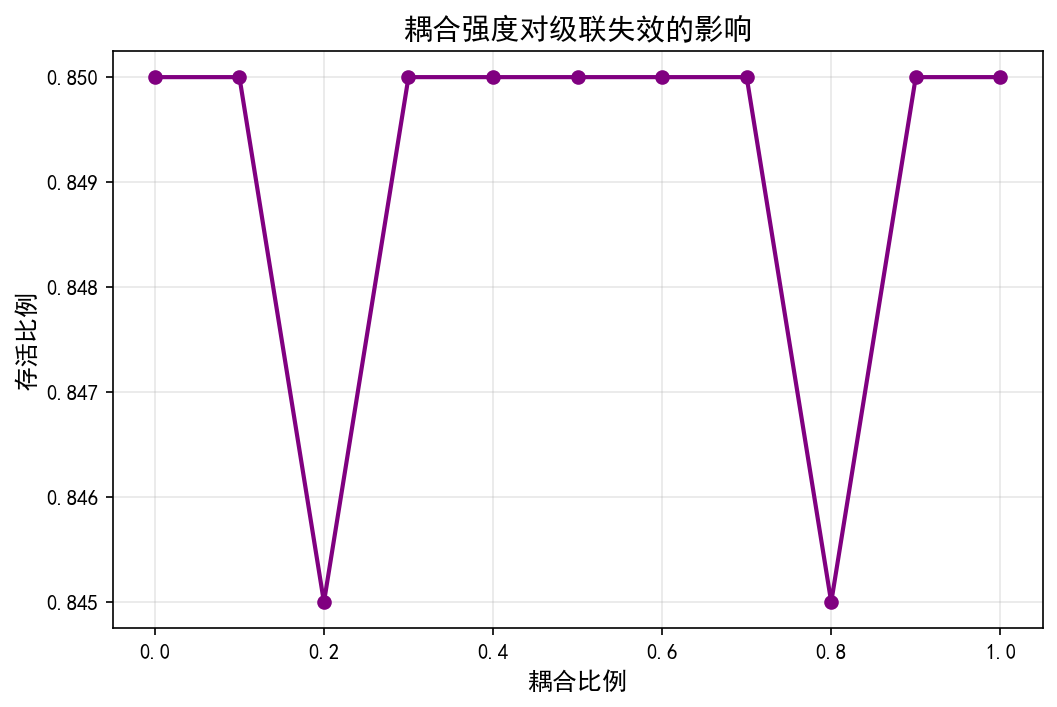
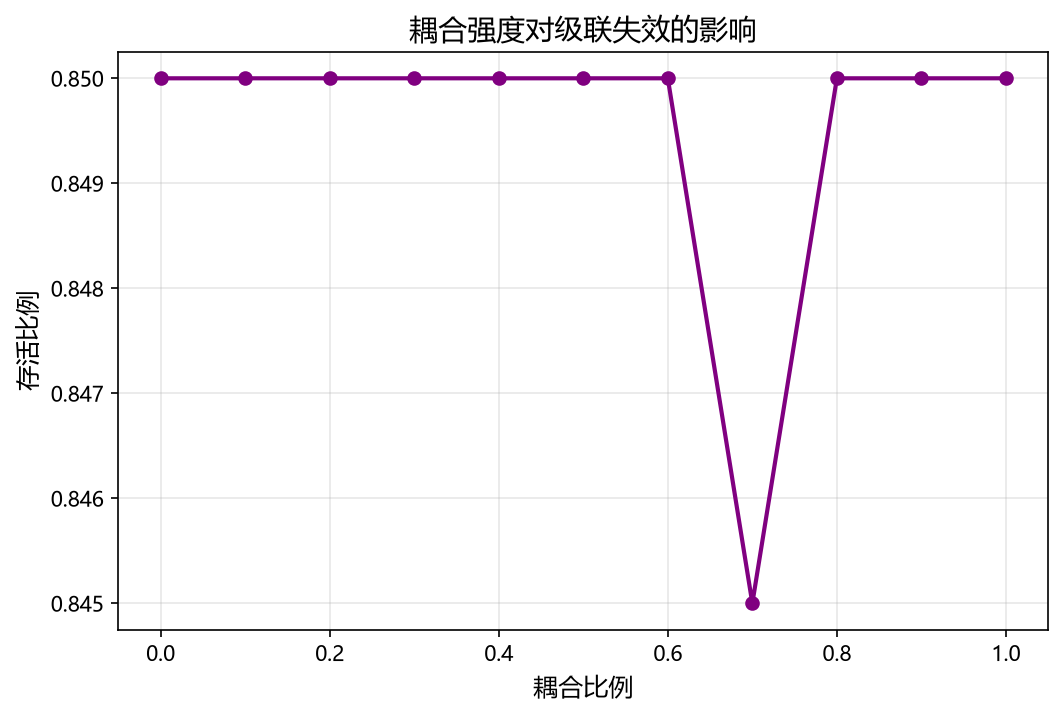
docs(project): 更新项目文档和元数据信息
- 在 AGENTS.md 中添加项目范围说明和全局内存引用路径
- 在 CLAUDE.md 中更新背景信息和文件结构说明
- 更新 data/ba_adjlist.txt 中的源文件路径和时间戳信息
- 修正 src/phase2_network_basics/01_networkx_basics.py 中的注释格式

diff --git a/src/phase2_network_basics/01_networkx_basics.py b/src/phase2_network_basics/01_networkx_basics.py
@@ -72,7 +72,7 @@ print(f"度分布: {dict(sorted(degree_dist.items()))}")
 
 # ============================================================
 # 4. 邻居
-# ============================================================
+# = ===========================================================
 
 print(f"\n邻居分析:")
 for node in G.nodes():

diff --git a/CLAUDE.md b/CLAUDE.md
@@ -1,6 +1,8 @@
 # 复杂网络级联失效仿真平台 —— 从零到项目实战
 
 > **你的背景**：有C/Java基础，Python零基础
+> **通用事实正本**：`C:/Users/Admin/AI-Memory/GLOBAL_MEMORY.md`（画像 / 研究口径 / 协作规则 / 环境）；上层项目记忆：`../AGENTS.md`。本文件只写本项目内容。
+
 > **你的目标**：学会Python → 完成导师课题 → 找到实习
 > **学习方法**：不是跟着教程学，而是在项目中边做边学
 

diff --git a/AGENTS.md b/AGENTS.md
@@ -1,5 +1,7 @@
 # 复杂网络级联失效仿真平台
 
+> **本文件只写本项目内容。** 用户画像 / 研究方向口径 / 协作硬规则 / 机器环境见全局正本 `C:\Users\Admin\AI-Memory\GLOBAL_MEMORY.md`；上层项目记忆：`E:\KeYan\Academic Roadmap\AGENTS.md`。
+
 Complex Network Cascading Failure Simulation Platform — 从 Python 零基础到完成导师课题的完整学习项目。
 
 ## 项目概述
